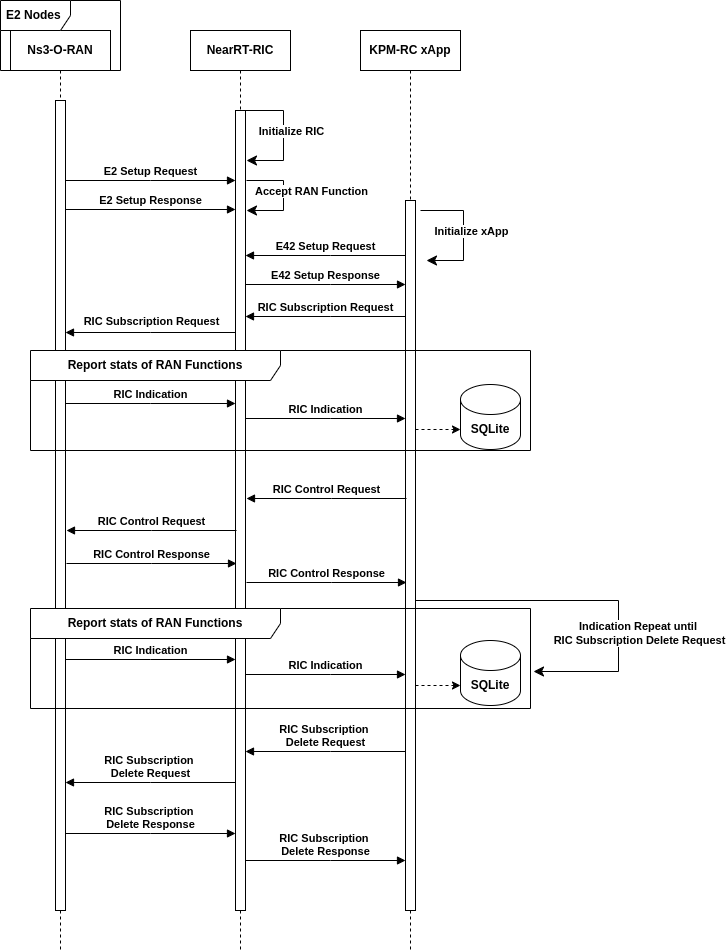
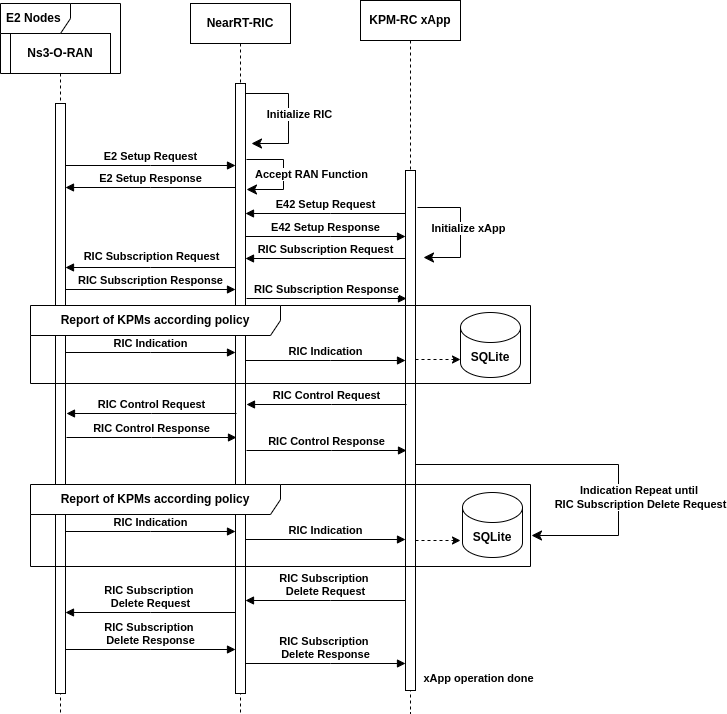
Updated README, fig 4, submodule branch, and heads.

diff --git a/README.md b/README.md
@@ -1,8 +1,8 @@
 # ns-o-ran-flexric
 
-# Project Introducation
+# Project Introduction
 
-Given the importance of obtaining a capable and fully open-source platform for xApp operation testing,  especially for the complex use-cases. Orange Innovation Egypt(OIE) team Successfully integrated FlexRIC from EURECOM with ns3-oran simulator that originally developed by the institute for the Wireless Internet of Things (WIoT) and Mavenir.  The team updated the ns3-oran simulator to be a fully compliant with E2AP v1.01 and KPM v3. This platform will pave the way to test the use-cases that need a rich LTE/5G simulator to be verified. The original project of ns3-oran in 
+Given the importance of obtaining a capable and fully open-source platform for xApp operation testing,  especially for the complex use-cases. Orange Innovation Egypt(OIE) team Successfully integrated FlexRIC from EURECOM with ns-O-RAN simulator that originally developed by the institute for the Wireless Internet of Things (WIoT) and Mavenir.  The team updated the ns-O-RAN simulator to be a fully compliant with E2AP v1.01 and KPM v3. This platform will pave the way to test the use-cases that need a rich LTE/5G simulator to be verified. The original project of ns-O-RAN in 
 [OpenRAN-Gym](https://openrangym.com/tutorials/ns-o-ran).
 
 ![alt text](fig/1.png)
@@ -40,7 +40,7 @@ The ns-O-RAN is composed by three main components, as shown in the figure below:
 
           - Update the message to match E2SM RC v1.01
  
- 5. **RIC Subscription delete response**
+ 5. **RIC Subscription delete request/response**
       
       
         - Implemented from scratch
@@ -78,9 +78,9 @@ The prepation of enviroment for running testing examples can be done when 'near-
 
 ### 1. FlexRiC Installation Instructions
 
-The first release for ns3-oran-flexric proejct is working with a mature commit for flexric, you **must** follow installtion and deployment instructions, under commit number [d3ff879135d036632d7938c2085dbf4577759225](https://gitlab.eurecom.fr/mosaic5g/flexric/-/tree/d3ff879135d036632d7938c2085dbf4577759225) before use the simulator.
+The first release for ns-O-RAN-flexric proejct is working with a mature commit for flexric, you **MUST** follow installtion and deployment instructions, under commit number [d3ff8791](https://gitlab.eurecom.fr/mosaic5g/flexric/-/tree/d3ff879135d036632d7938c2085dbf4577759225) before use the simulator.
 
-### 2. ns3-oran Installation Instructions
+### 2. ns-O-RAN-flexric Installation Instructions
 
 First you need to clone the project 
 
@@ -97,12 +97,12 @@ If you made a clone before and there are new updates so you need to make recursi
 git pull --recurse-submodules https://github.com/Orange-OpenSource/ns-O-RAN-flexric
 ```
 
-To set up the environment for ORAN E2 simulator, navigate to the `/e2sim` directory. Create a new directory named build. Then execute the script `build_e2sim.sh` with the argument `3` to enable LOG_LEVEL (DEBUG). This is useful to debug the exchange of the messages between the ns-3 and the RIC, but also there are a different debug levels that can be setup. These levels are summarized in the table below.
+To set up the environment for ORAN E2 simulator, navigate to the `/e2sim-kpmv3/e2sim` directory. Create a new directory named build. Then execute the script `build_e2sim.sh` with the argument `3` to enable LOG_LEVEL (DEBUG). This is useful to debug the exchange of the messages between the ns-3 and the RIC, but also there are a different debug levels that can be setup. These levels are summarized in the table below.
 
 ```
-cd e2sim/
+cd /e2sim-kpmv3/e2sim/
 mkdir build
-./build_e2sim.sh 3
+sudo ./build_e2sim.sh 3
 ```
 
 <table>
@@ -168,13 +168,14 @@ At this step the software in place to configure and build ns-3:
 
 #### Scenario Zero
 Finally, run an example ns-3 scenario called `Scenario Zero` for testing purpose. This scenario features a Non-StandAlone (NSA) 5G setup in which, its have one LTE eNB positioned in the center of the scenario and four gNBs around it with an inter site distance of 1000 between the eNB and each gNB. You can run the scenario after done the following steps first:
-```
+
 1. First you must be done the installation instructions for the flexric mentiond in the above section 'FlexRiC Installation Instructions'
 2. Second you must done the building steps for ns3-oran simulator section, to build an 'e2sim' and 'ns-3-mmwave-oran' waf.
-3. Navigate to '/path/to/flexric/build/examples/ric/' and then run './nearRT-RIC'.
-3. Navigate to '/path/to/flexric/build/examples/xApp/c/kpm_rc' and then run './xapp_kpm_rc'.
-4. Navigate to '/path/to/ns-3-mmwave-oran'  and then run './waf --run scratch/scenario-zero.cc'
-```
+3. The last thing, after you done the building process, it's time to run the **scenario-zero** as a first test case.
+    1. Navigate to '/path/to/flexric/build/examples/ric/' and then run './nearRT-RIC'.
+    2. Navigate to '/path/to/ns-3-mmwave-oran'  and then run './waf --run scratch/scenario-zero.cc'
+    3. Navigate to '/path/to/flexric/build/examples/xApp/c/kpm_rc' and then run './xapp_kpm_rc'.
+
 
 And if everything goes as intended we should be able to see in order the following messages as shown in the diagram below, and flowing between the ns-3 and the RIC, or as mentiond sequence diagram represented above:
 
